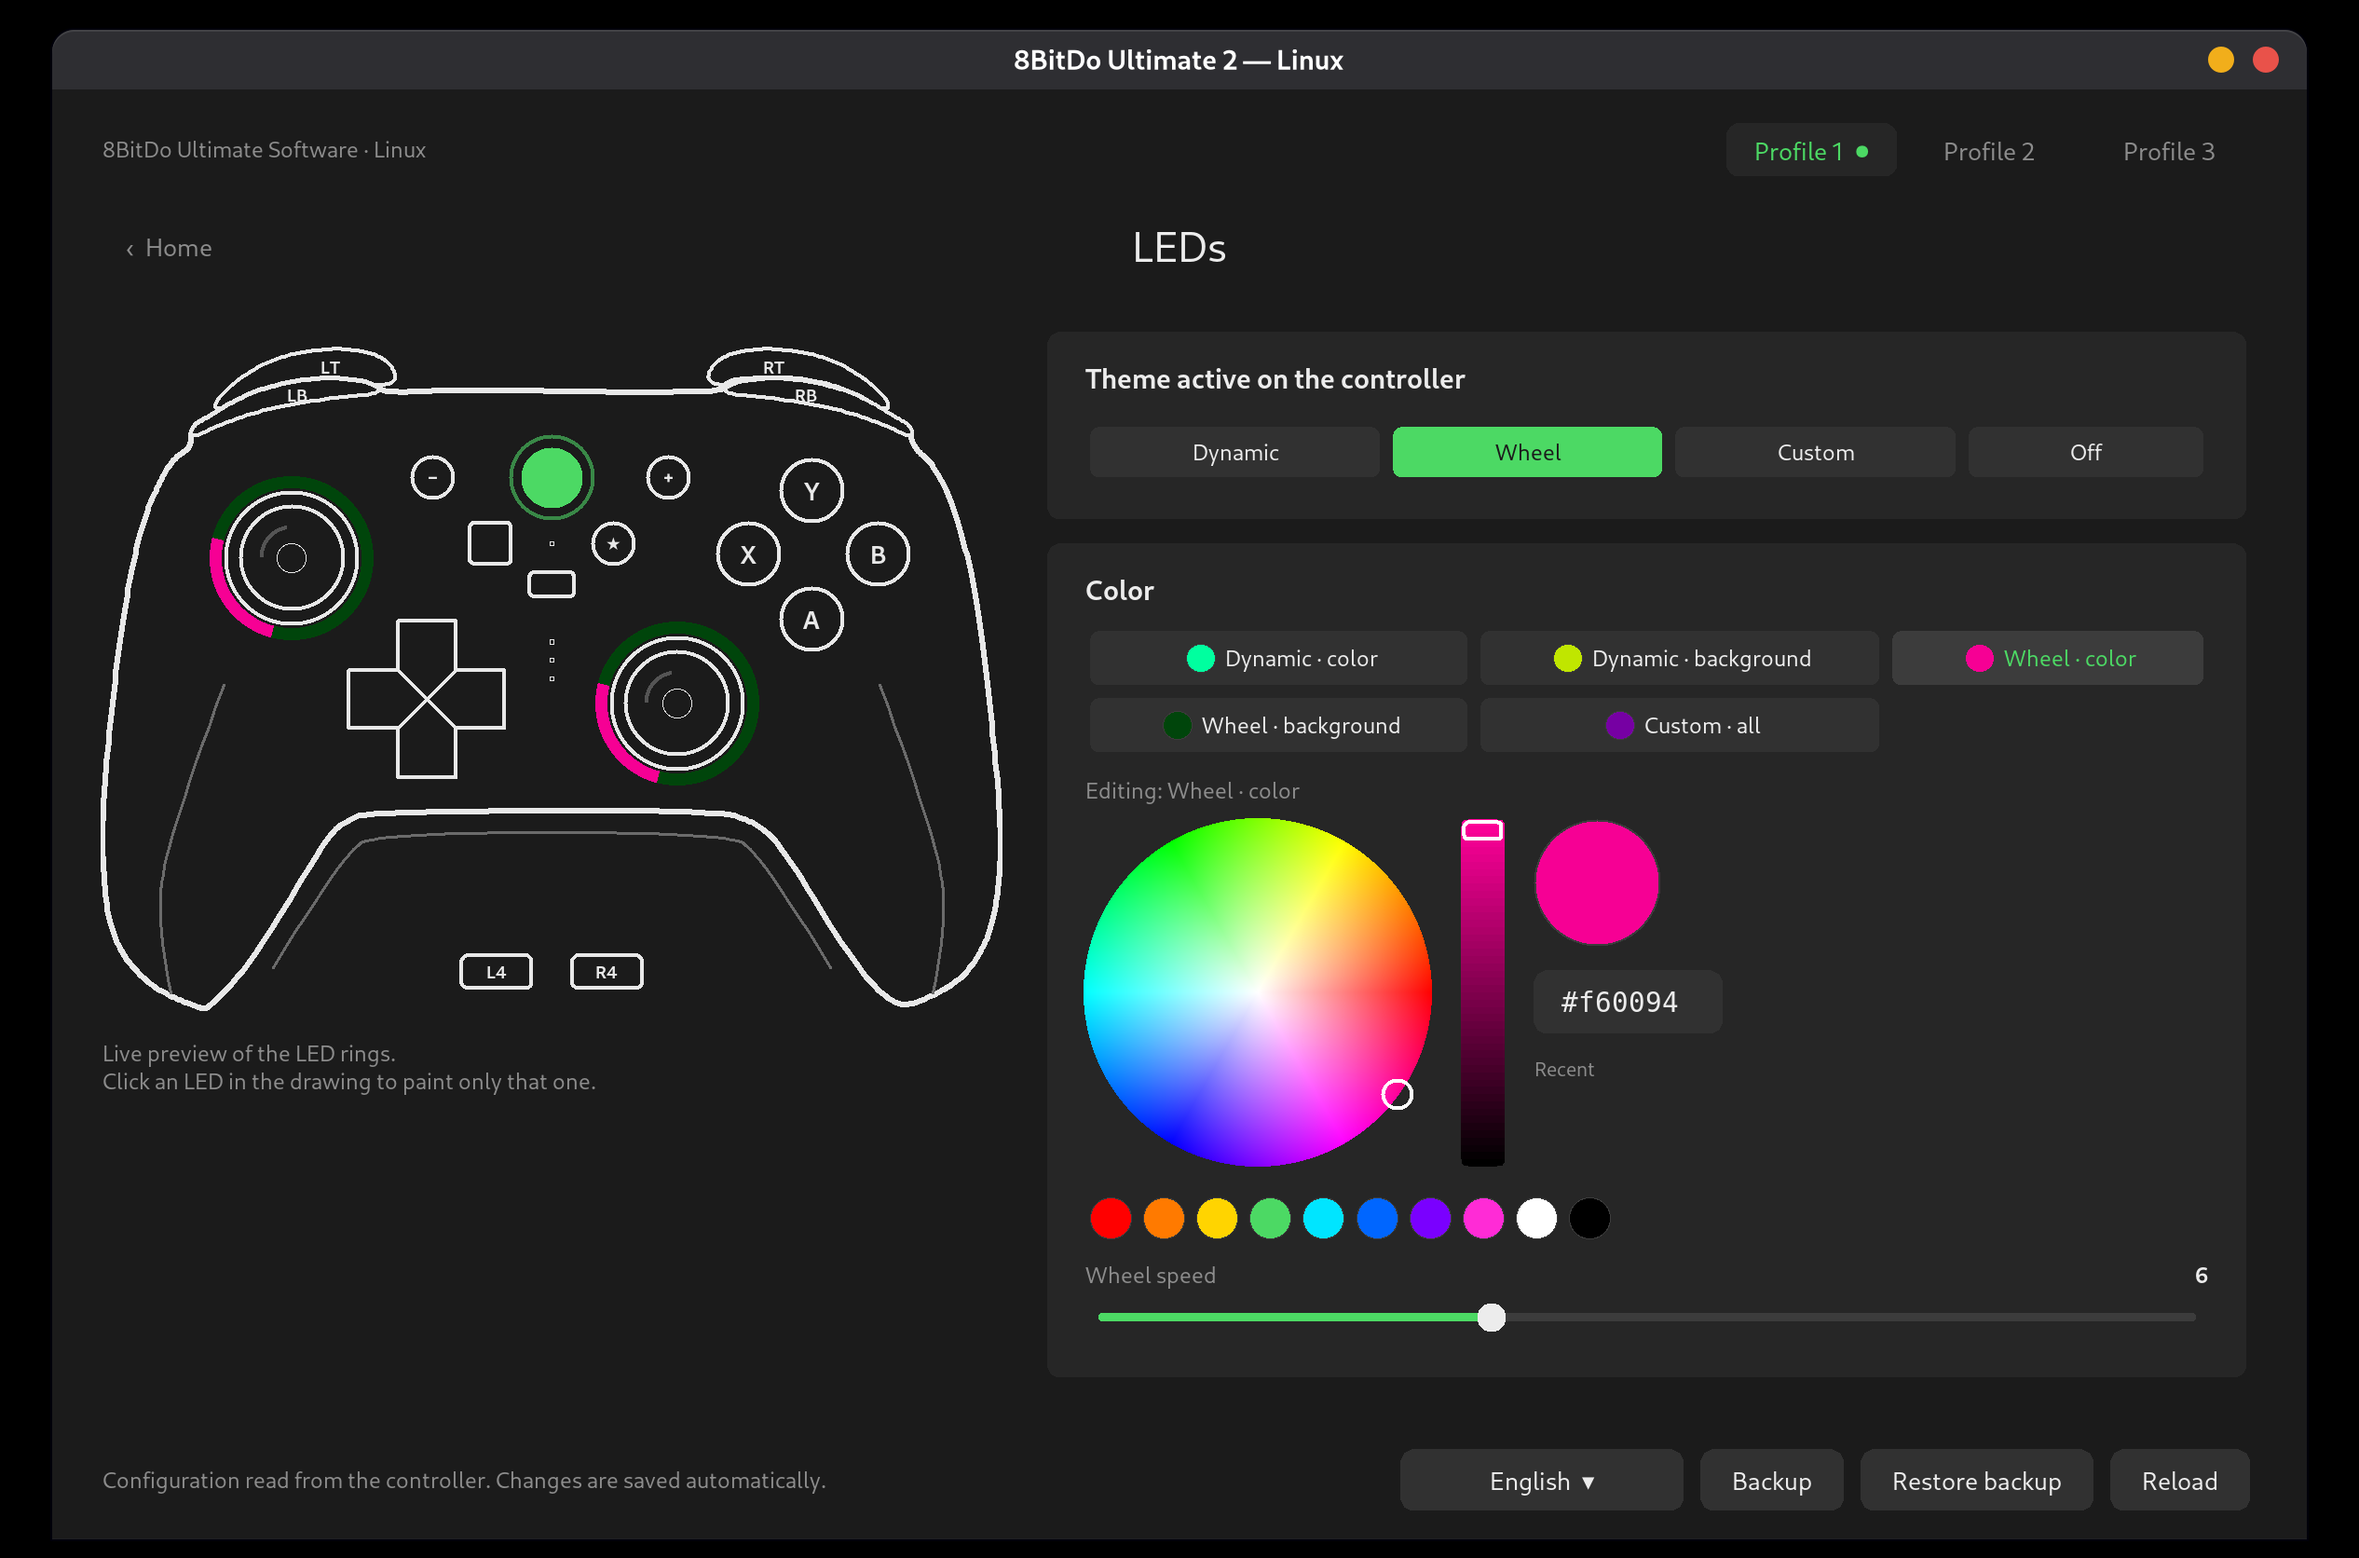
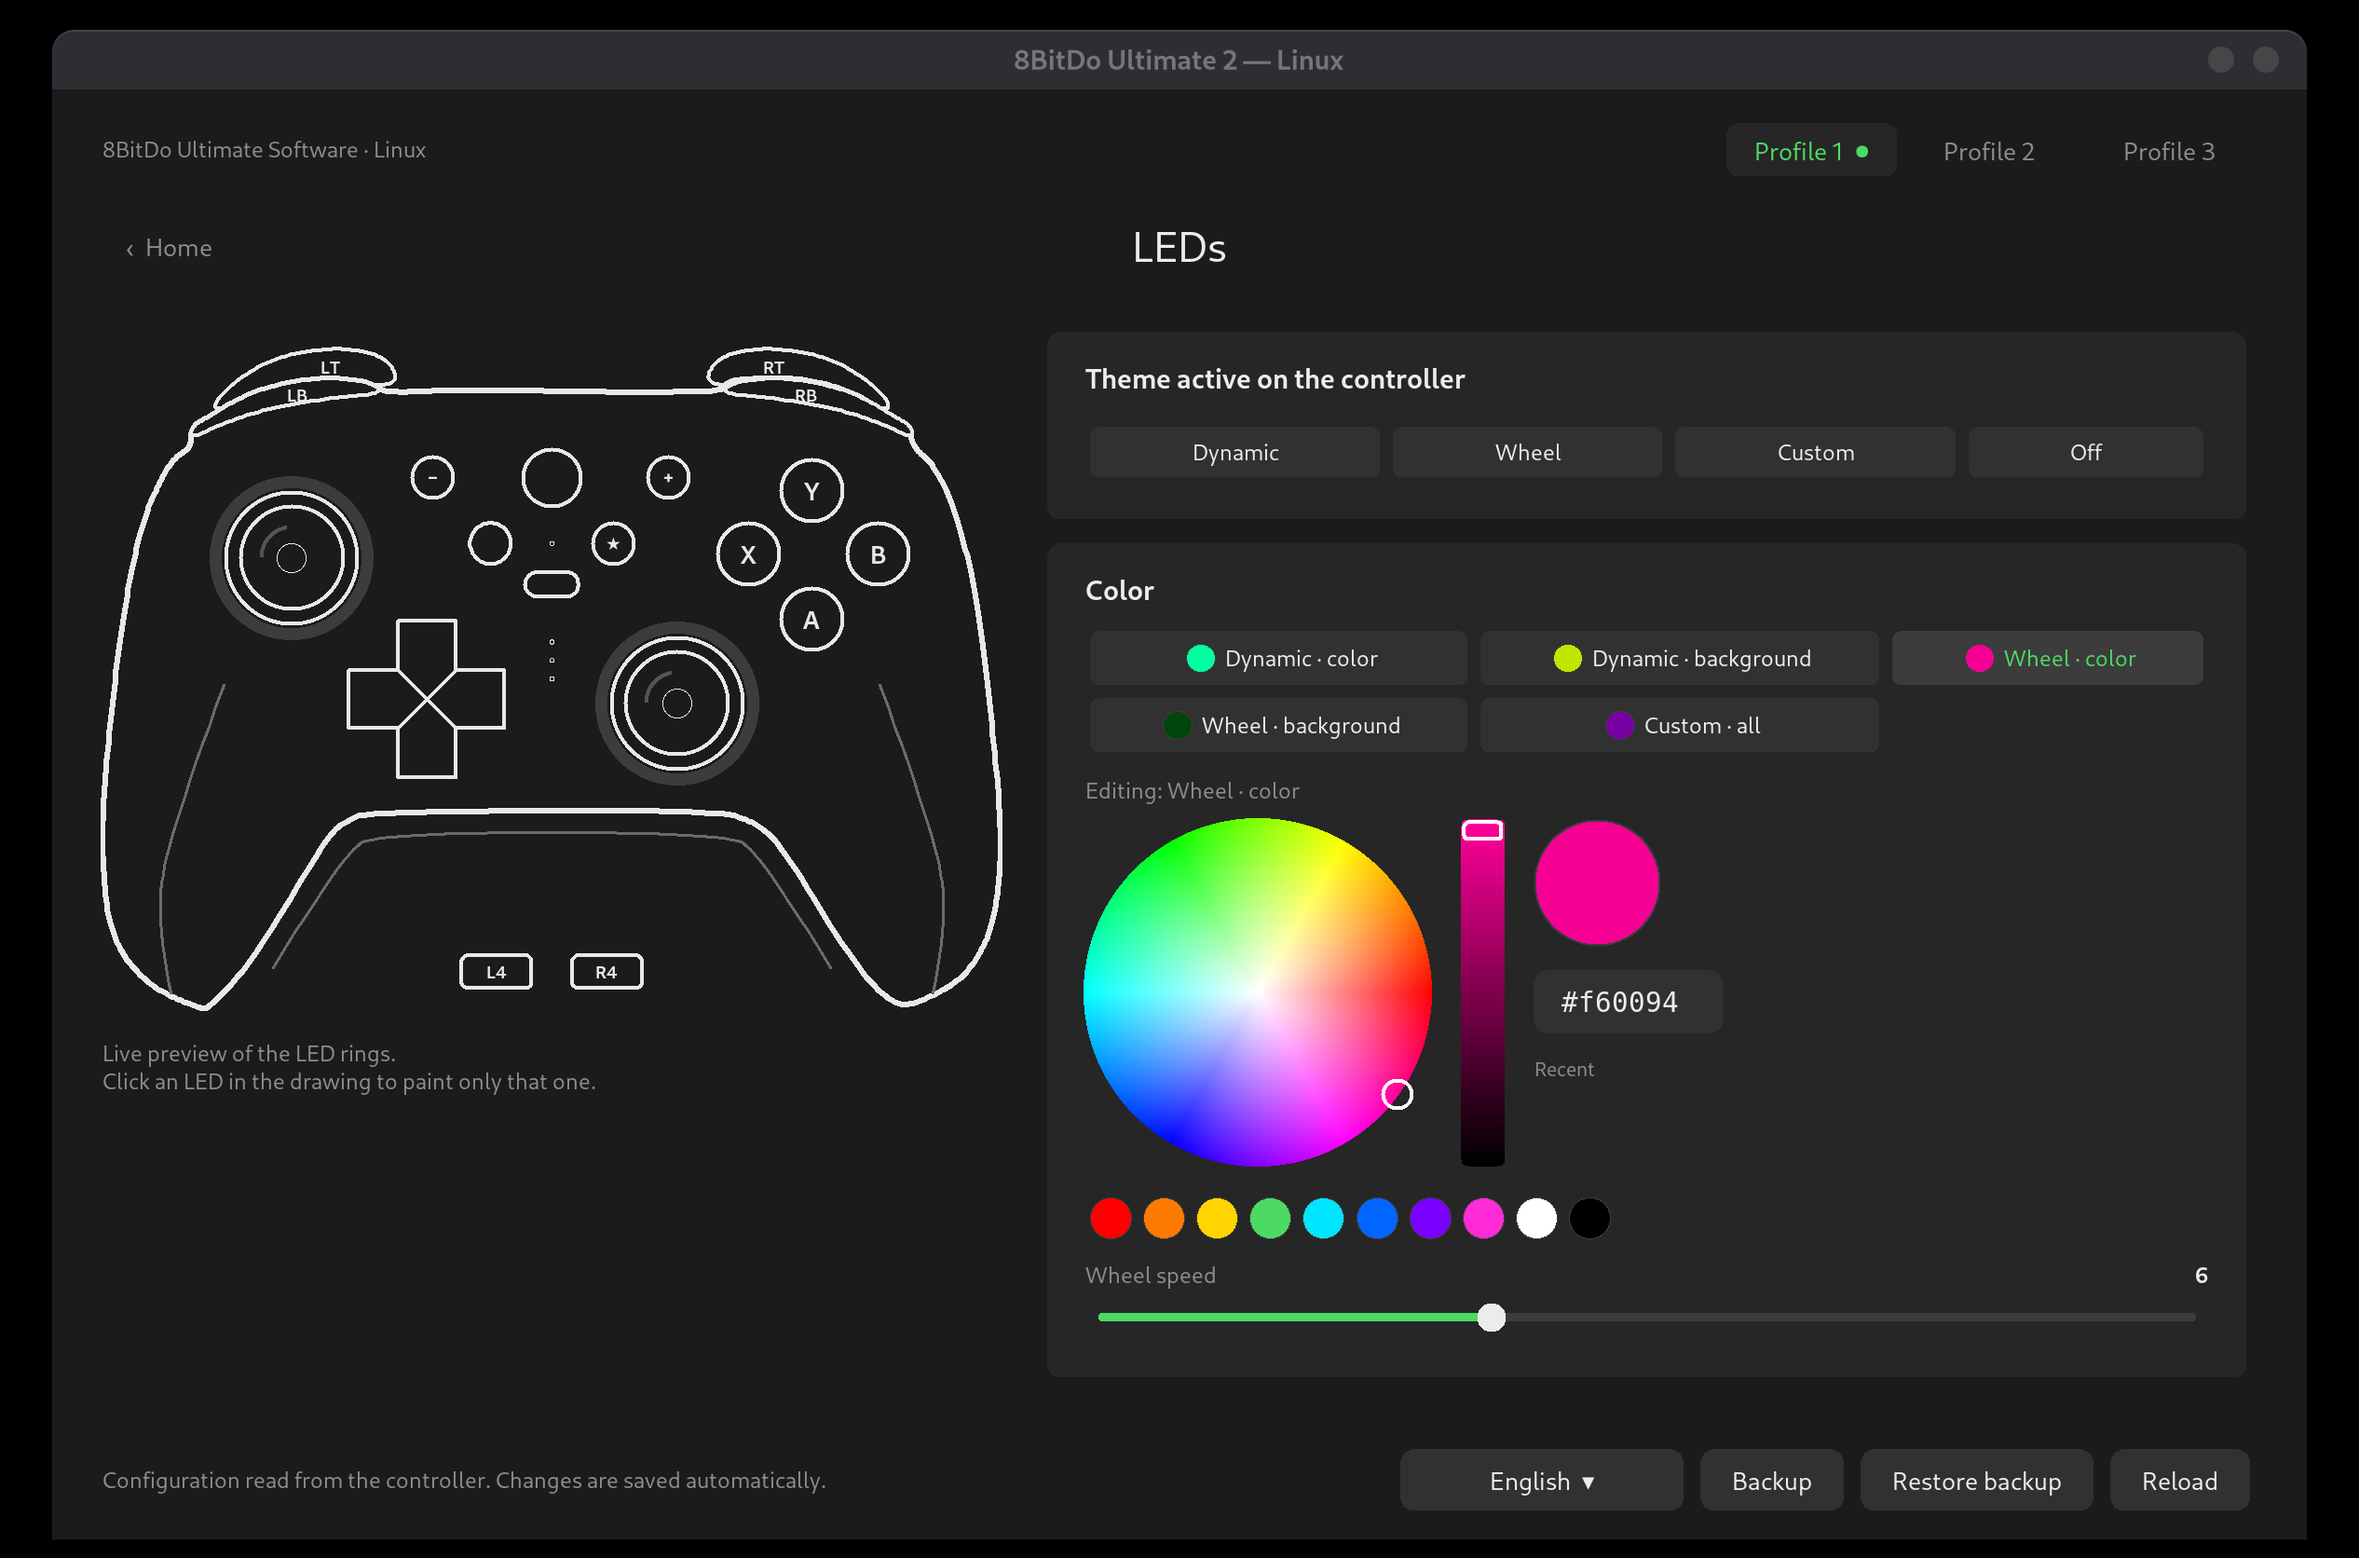
GUI: round centre button and capsule profile button

diff --git a/src/ultimate2/gui/controller.py b/src/ultimate2/gui/controller.py
@@ -6,7 +6,7 @@ import tkinter.font as tkfont
 from .. import config
 from . import theme
 from .catalog import DISPLAY
-from .drawing import gradient_fill, led_frame, mix, rounded, rr_points, set_color, smooth_outline
+from .drawing import gradient_fill, led_frame, mix, rounded, rr_points, set_color, smooth_outline, stadium
 from .geometry import (BEHIND, BODY, CALLOUTS, DECOR, DETAILS, DPAD_ARM, DPAD_CENTER, DPAD_HALF, EMBLEM, HEIGHT,
                        HOME_OFFSET, PARTS, RINGS, ROLES, STICK_WELLS, WIDTH)
 from .i18n import _
@@ -117,9 +117,9 @@ class ControllerView:
             h = DPAD_HALF
             rounded(c, *P(dx0 - h + 1, dy0 - h + 2, dx0 + h + 1, dy0 + h + 2), 5 * s, fill=shadow, outline="")  # hub shadow
             rounded(c, *P(dx0 - h, dy0 - h, dx0 + h, dy0 + h), 5 * s, fill=sk["dpad"][0], outline="")          # d-pad hub
-        for x1, y1, x2, y2, r in DECOR:                     # non-configurable face details
-            rounded(c, *P(x1, y1, x2, y2), r * s, fill=BG if line else sk["btn"][0],
-                    outline=sk["line"] if line else sk["btn"][1], width=w if r > 1 else 1)
+        for x1, y1, x2, y2 in DECOR:                        # non-configurable face details
+            c.create_polygon(P(*stadium(x1, y1, x2, y2)), fill=BG if line else sk["btn"][0],
+                             outline=sk["line"] if line else sk["btn"][1], width=w if y2 - y1 > 2 else 1)
         if sk["emblem"]:                                    # flower emblem around Home
             ex, ey = EMBLEM
             for k in range(8):

diff --git a/src/ultimate2/gui/geometry.py b/src/ultimate2/gui/geometry.py
@@ -33,9 +33,9 @@ PARTS = {
     "Home": ("circle", (220, 67, 14), ""), "Star": ("circle", (250, 99, 10), "★"),
     "P2": ("rrect", (176, 300, 210, 316), "L4"), "P1": ("rrect", (230, 300, 264, 316), "R4"),   # back buttons
 }
-# parts of the face that are not configurable: square button, profile button, centre dot, player LEDs (rrect boxes)
-DECOR = [(180, 89, 200, 109, 5), (209, 113, 231, 125, 6), (219, 98, 221, 100, 1),
-         *((219, y - 1, 221, y + 1, 1) for y in (147, 156, 165))]
+# parts of the face that are not configurable, drawn fully rounded (x1, y1, x2, y2): round button, profile button,
+# centre dot, player LEDs
+DECOR = [(180, 89, 200, 109), (207, 113, 233, 125), (219, 98, 221, 100), *((219, y - 1, 221, y + 1) for y in (147, 156, 165))]
 BEHIND = ("LT", "RT")            # parts drawn behind the body
 # button roles pick the skin colours (theme.SKINS); everything else uses "btn"
 ROLES = {**dict.fromkeys(("A", "B", "X", "Y"), "face"), **dict.fromkeys(("Up", "Down", "Left", "Right"), "dpad"),

diff --git a/src/ultimate2/gui/drawing.py b/src/ultimate2/gui/drawing.py
@@ -17,6 +17,19 @@ def rounded(c, x1, y1, x2, y2, r, **kw):
     return c.create_polygon(rr_points(x1, y1, x2, y2, r), smooth=True, **kw)
 
 
+def stadium(x1, y1, x2, y2, steps=12):
+    """Points of a box with fully rounded ends (a circle when it is square), for ``create_polygon``."""
+    r = min(x2 - x1, y2 - y1) / 2
+    cx1, cy1, cx2, cy2 = x1 + r, y1 + r, x2 - r, y2 - r
+    out = []
+    for k in range(4 * steps):              # quarter arcs, clockwise from the right end
+        a = math.pi / 2 * k / steps - math.pi / 2
+        cx = cx2 if math.cos(a) >= 0 else cx1
+        cy = cy2 if math.sin(a) >= 0 else cy1
+        out += [cx + r * math.cos(a), cy + r * math.sin(a)]
+    return out
+
+
 def smooth_outline(pts, steps=10):
     """Points of the curve Tk draws for a closed ``smooth=True`` polygon (quadratic splines through edge midpoints)."""
     out = []

diff --git a/tests/gui/test_drawing.py b/tests/gui/test_drawing.py
@@ -102,3 +102,12 @@ def test_gradient_fill_bevel_lights_the_edges(shared_app):
     assert px(lit, 0, 0) is None and px(lit, 20, 20)                    # still clipped to the shape
     edge = drawing.gradient_fill(shared_app, [(-5, -5), (45, -5), (45, 45), (-5, 45)], 40, 40, stops, bevel=8)
     assert all(px(edge, x, y) for x, y in ((0, 0), (39, 39), (0, 39)))  # a shape filling the image (no outline inside)
+
+
+def test_stadium_is_a_circle_when_square_and_a_capsule_otherwise():
+    pts = drawing.stadium(0, 0, 20, 20)
+    xy = list(zip(pts[::2], pts[1::2]))
+    assert all(abs(((x - 10) ** 2 + (y - 10) ** 2) ** .5 - 10) < 1e-9 for x, y in xy)
+    xy = list(zip(*[iter(drawing.stadium(0, 0, 30, 10))] * 2))
+    assert min(x for x, _ in xy) == 0 and max(x for x, _ in xy) == 30
+    assert min(y for _, y in xy) == 0 and max(y for _, y in xy) == 10

diff --git a/CHANGELOG.md b/CHANGELOG.md
@@ -16,7 +16,7 @@ This project follows [Semantic Versioning](https://semver.org/).
 
 * The drawing follows the real shape of the Ultimate 2: outline, shoulders and button positions were traced from
   the silhouette of the official render (alpha channel only, `tools/trace_silhouette.py`; no artwork is included).
-  The square button, profile button and player LEDs are drawn too.
+  The round button, the capsule-shaped profile button and the player LEDs are drawn too.
 
 ## 0.1.0-beta.2 — 2026-10-12
 
